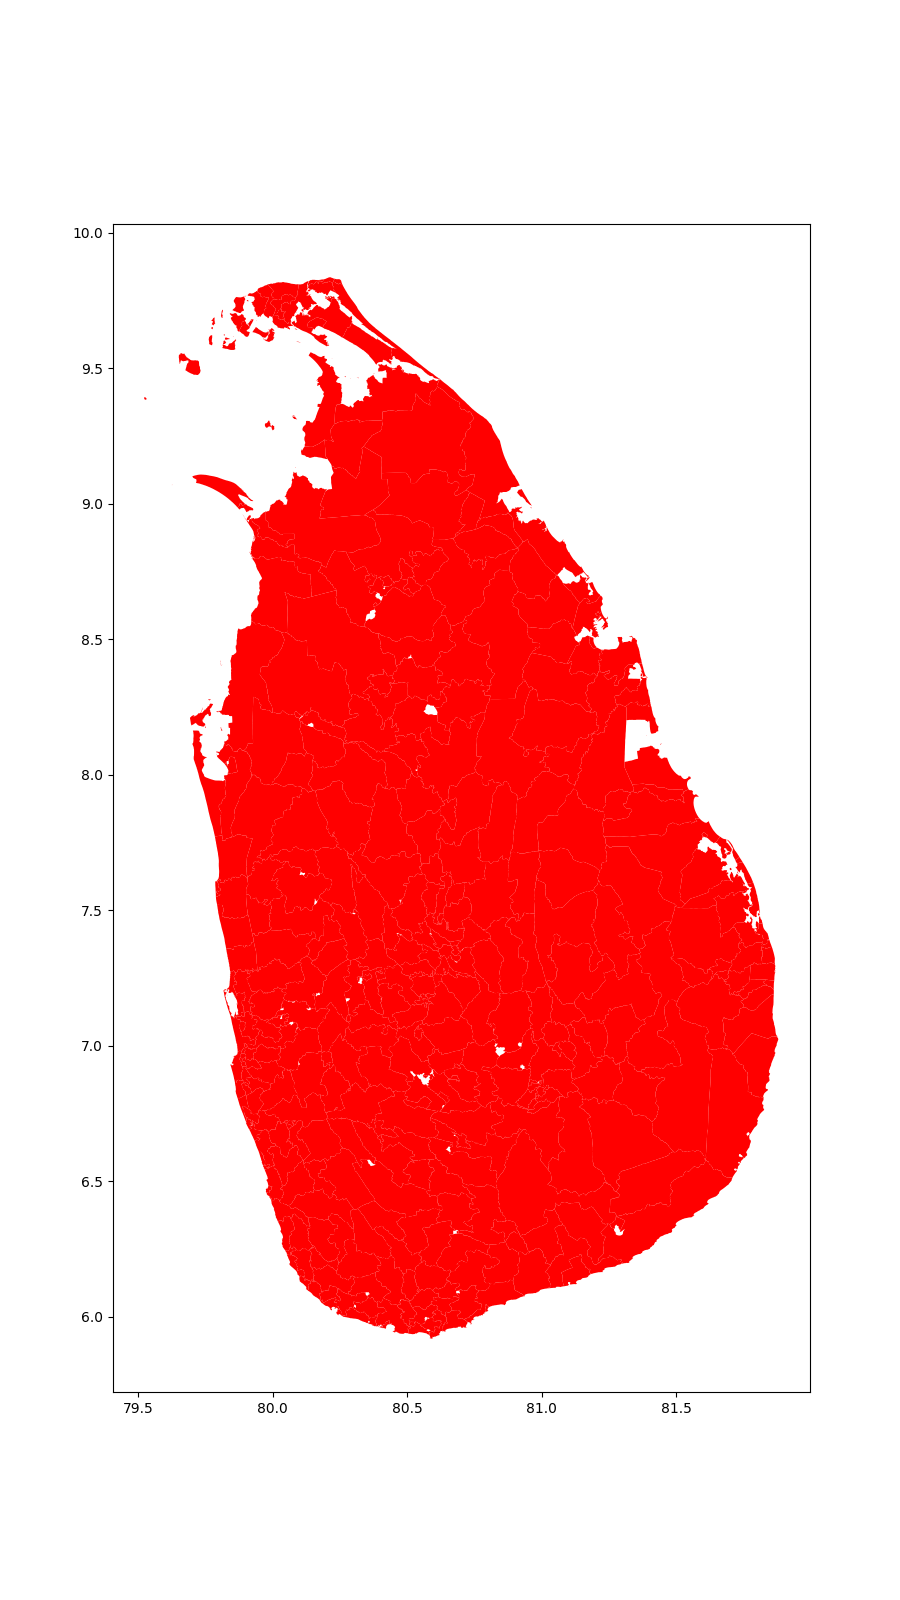
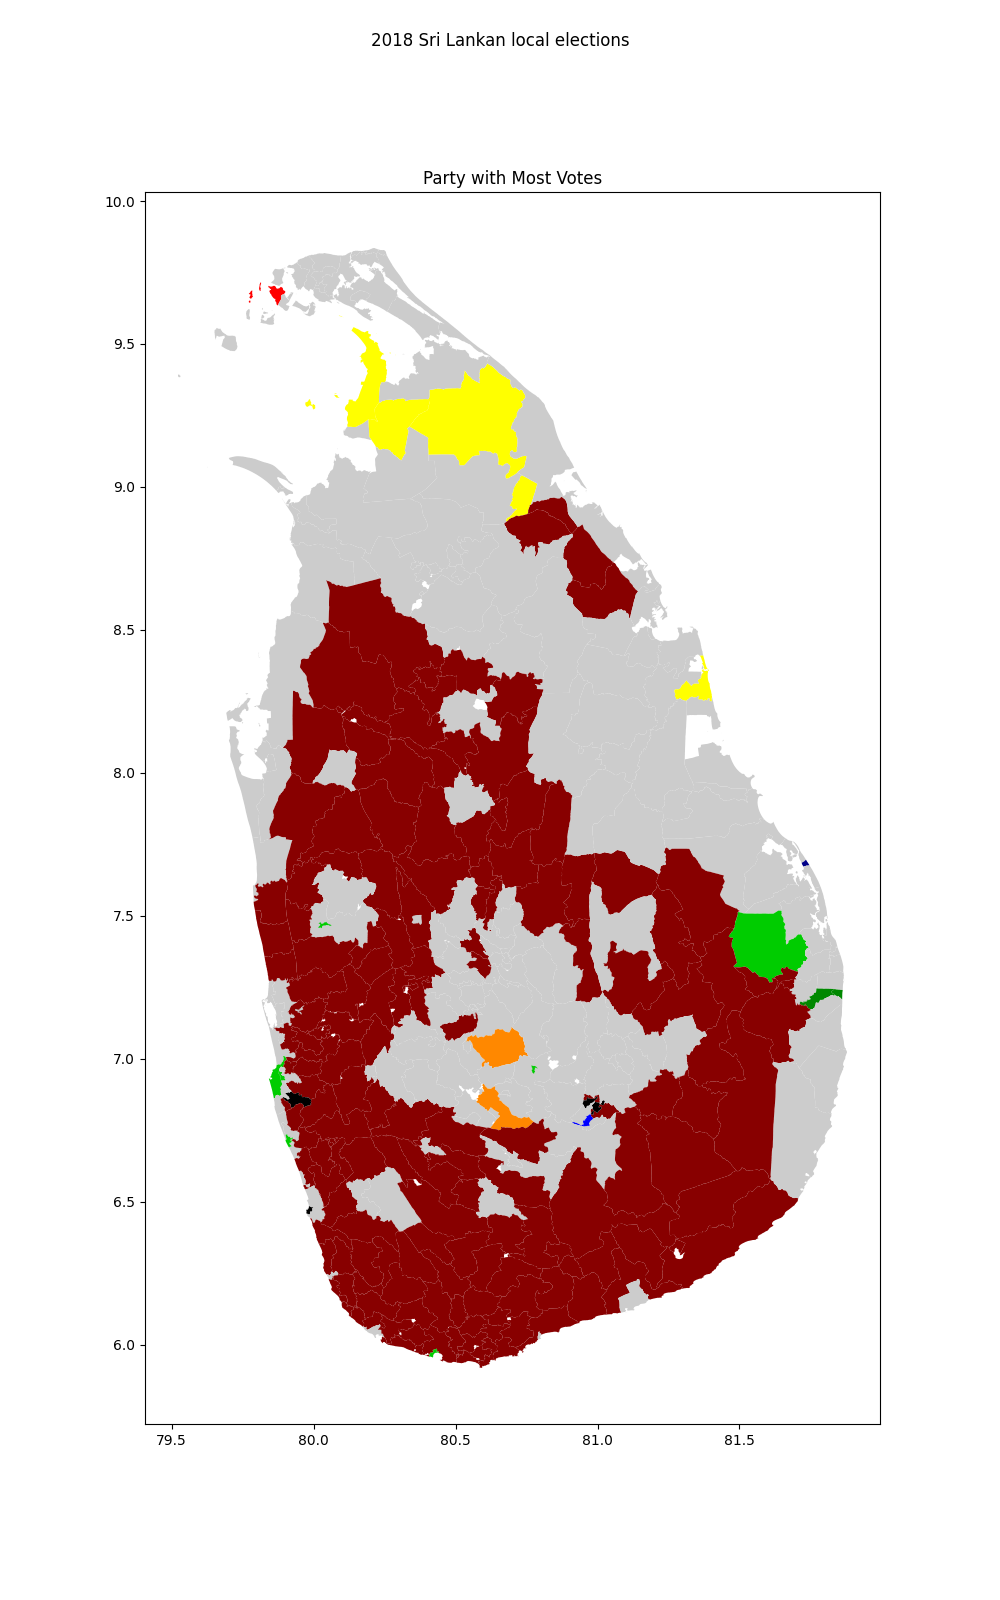
example3, and example2 enhancements

diff --git a/examples/local_authority/example3_lg_results_map_filtered.py b/examples/local_authority/example3_lg_results_map_filtered.py
@@ -1,25 +1,19 @@
+import sys
+
 import matplotlib.pyplot as plt
 from gig import Ent
 
 from elections_lk.elections import ElectionLocalAuthority
 
 PARTY_TO_COLOR = {
-    'ACMC': '#080',
     'AITC': '#ff0',
     'CWC': '#f80',
-    'ELMSP': '#f00',
-    'EPDP': '#f00',
-    'IG': '#000',
-    'IG2': '#000',
-    'IG3': '#000',    
+    'IG': '#fff',
+    'IG2': '#fff',
     'ITAK': '#ff0',
     'JVP': '#f00',
-    'MNA': '#080',
-    'NC': '#080',
     'SLFP': '#008',
-    'SLMC': '#080',
     'SLPP': '#800',
-    'TULF': '#f00',
     'UNP': '#0c0',
     'UPFA': '#00f',
 }
@@ -27,9 +21,14 @@ PARTY_TO_COLOR = {
 
 if __name__ == '__main__':
     election = ElectionLocalAuthority.load(2018)
+    id_filter = sys.argv[1]
 
-    _, ax = plt.subplots(figsize=(10, 16))
+    _, ax = plt.subplots(figsize=(16, 9))
     for result in election.lg_final_results:
+        ent = Ent.from_id(result.region_id)
+        if id_filter not in ent.id:
+            continue
+
         best_party, best_seats = result.party_to_seats.items_sorted()[0]
 
         if best_seats < 0.5 * result.total_seats:
@@ -41,18 +40,18 @@ if __name__ == '__main__':
                 print(f"'{best_party}': '',")
                 color = '#fff'
 
-        lg_id = result.region_id
-
-        ent = Ent.from_id(lg_id)
         geo = ent.geo()
         geo.plot(ax=ax, color=color)
 
-    
-    plt.suptitle('2018 Sri Lankan local elections')
-    plt.title('Party with Most Votes')
+        plt.annotate(
+            ent.acronym,
+            xy=ent.lnglat,
+            xytext=ent.lnglat,
+            horizontalalignment='center',
+            verticalalignment='center',
+        )
 
-    png_file_name = __file__[:-3] + '.png'
+    png_file_name = __file__[:-3] + '.' + id_filter + '.png'
     plt.savefig(png_file_name)
     plt.close()
-
     print('Saved ', png_file_name)

diff --git a/src/elections_lk/core/Result.py b/src/elections_lk/core/Result.py
@@ -1,4 +1,5 @@
 from dataclasses import dataclass
+from functools import cached_property
 
 from elections_lk.core.PartyToVotes import PartyToVotes
 from elections_lk.core.SummaryStatistics import SummaryStatistics
@@ -9,6 +10,10 @@ class Result:
     region_id: str
     summary_statistics: SummaryStatistics
     party_to_votes: PartyToVotes
+
+    @cached_property
+    def total_votes(self) -> int:
+        return self.party_to_votes.total
 
     @classmethod
     def concat(cls, concat_region_id: str, result_list: list):

diff --git a/src/elections_lk/core/FinalResult.py b/src/elections_lk/core/FinalResult.py
@@ -11,7 +11,7 @@ class FinalResult(Result):
 
     @cached_property
     def total_seats(self) -> int:
-        return sum(self.party_to_seats.values())
+        return self.party_to_seats.total
 
     @staticmethod
     def fromResult(result: Result, party_to_seats: PartyToSeats):
